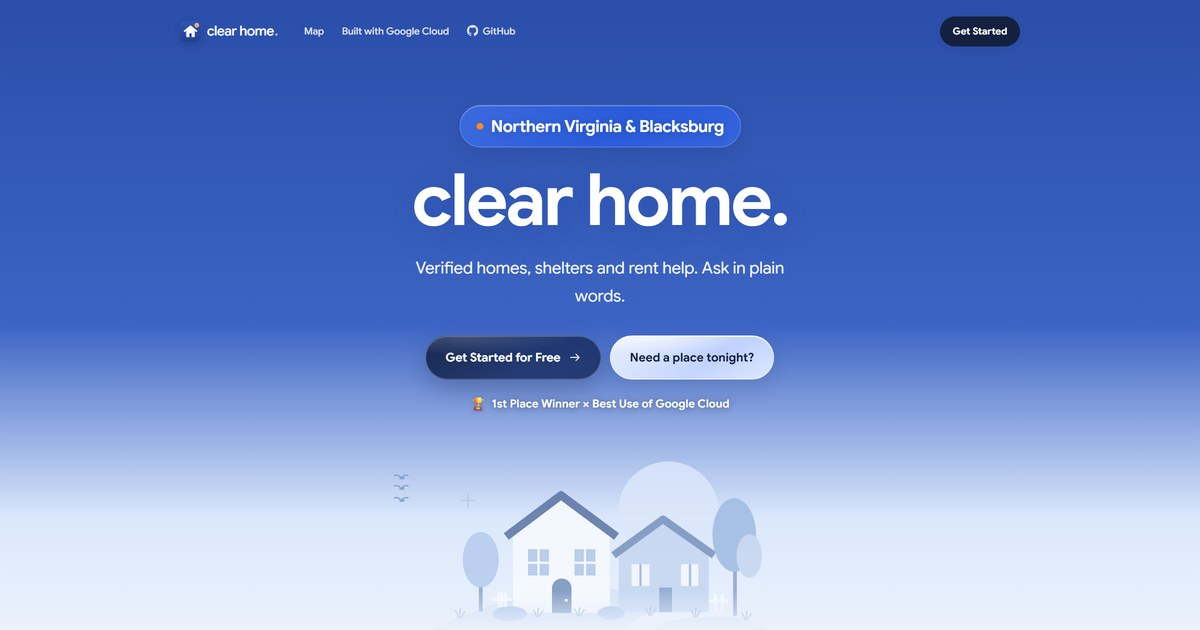
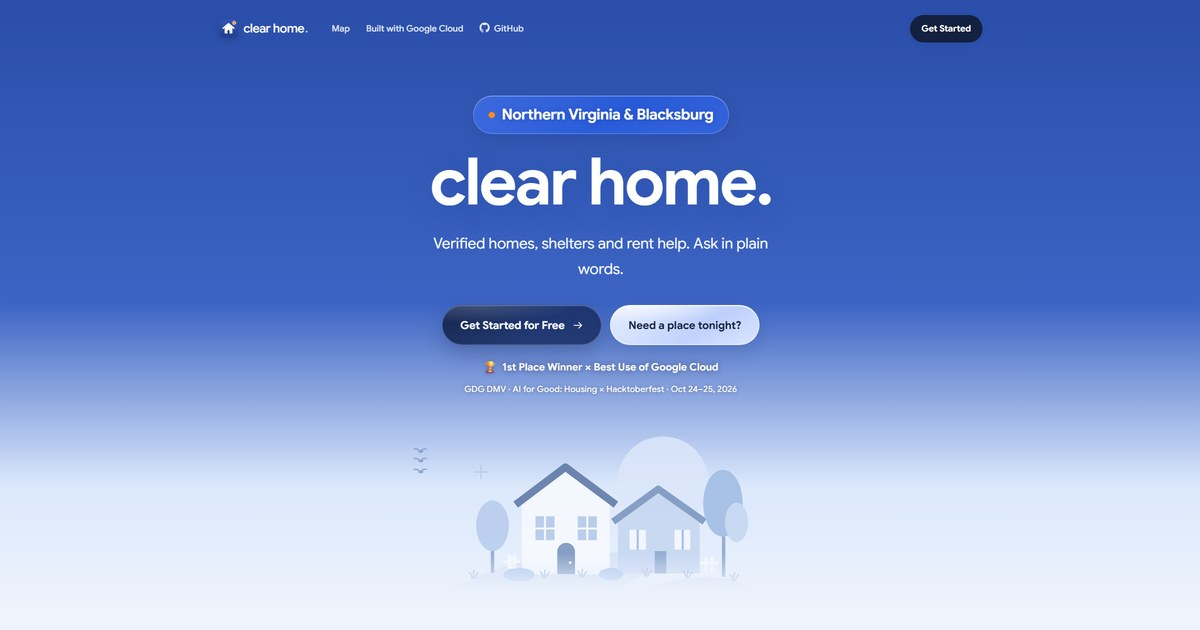
Front page: the event under the award line in smaller text (GDG DMV · AI for Good: Housing × Hacktoberfest · Oct 24–25, 2026; the date on its own line on phones); link preview updated

Changed region(s): [[0.0, 0.1508, 1.0, 0.9952], [0.74, 0.0, 0.8633, 0.0905], [0.1542, 0.0302, 0.4317, 0.0603]]

diff --git a/frontend/about.html b/frontend/about.html
@@ -15,12 +15,12 @@
   <meta property="og:title" content="Clear Home">
   <meta property="og:description" content="Verified homes, shelters and rent help in Northern Virginia and Blacksburg. Ask in plain words.">
   <meta property="og:url" content="https://clearhome.live/">
-  <meta property="og:image" content="https://clearhome.live/images/og-image.jpg?v=4">
+  <meta property="og:image" content="https://clearhome.live/images/og-image.jpg?v=5">
   <meta property="og:image:width" content="1200">
   <meta property="og:image:height" content="630">
   <meta property="og:image:alt" content="The Clear Home front page: clear home., verified homes, shelters and rent help. 1st Place Winner and Best Use of Google Cloud.">
   <meta name="twitter:card" content="summary_large_image">
-  <meta name="twitter:image" content="https://clearhome.live/images/og-image.jpg?v=4">
+  <meta name="twitter:image" content="https://clearhome.live/images/og-image.jpg?v=5">
   <link rel="preconnect" href="https://fonts.googleapis.com">
   <link rel="preconnect" href="https://fonts.gstatic.com" crossorigin>
   <link href="https://fonts.googleapis.com/css2?family=Inter:wght@400;600;700;800&family=IBM+Plex+Sans:wght@400;600&display=swap" rel="stylesheet">
@@ -66,6 +66,7 @@
         <p class="cl-sub cl-in" style="--d:.35s">Verified homes, shelters and rent help. Ask in plain words.</p>
         <div class="cl-actions cl-in" style="--d:.5s"><a class="cl-btn" href="/app" data-start>Get Started for Free <svg width="17" height="17" fill="none" stroke="currentColor" stroke-width="1.8" stroke-linecap="round" stroke-linejoin="round" aria-hidden="true"><use href="#arrow"/></svg></a><a class="cl-btn ghost" href="/app#emergency" data-tonight-start>Need a place tonight?</a></div>
         <p class="cl-award cl-in" style="--d:.65s"><img class="cl-award-cup" src="/images/trophy.png" alt="" width="20" height="20"><span>1st Place Winner × Best Use of Google Cloud</span></p>
+        <p class="cl-award-event cl-in" style="--d:.7s">GDG DMV · AI for Good: Housing × Hacktoberfest<span class="cl-award-sep"> · </span><span class="cl-award-date">Oct 24–25, 2026</span></p>
       </div>
       <div class="cl-hero-art" aria-hidden="true"><svg viewBox="0 0 470 260" fill="none"><circle cx="326" cy="97" r="67" fill="#dce7fb"/><defs><clipPath id="cl-planet"><path d="M0 260A490 490 0 0 1 470 260Z"/></clipPath></defs><path d="M0 260A490 490 0 0 1 470 260Z" fill="#d6e2f5"/><path d="M272 260c45-34 100-39 198-27" stroke="#eef3fc" stroke-width="20" clip-path="url(#cl-planet)"/><path d="M119 127 183 80l65 47v105H119Z" fill="#f8fbff"/><path d="m110 130 73-55 74 55" stroke="#5b74a3" stroke-width="11" stroke-linejoin="round"/><path d="M139 147h28v35h-28zM201 147h28v35h-28z" fill="#b4c8e9"/><path d="M153 147v35m62-35v35m-76-17h28m34 0h28" stroke="#f8fbff" stroke-width="3"/><path d="M171 232v-33a13 13 0 0 1 26 0v33" fill="#7892bc"/><circle cx="190" cy="215" r="2" fill="#f8fbff"/><path d="m260 151 59-43 61 43v80H260Z" fill="#c5d6f1"/><path d="m253 155 66-48 68 48" stroke="#7892bc" stroke-width="10" stroke-linejoin="round"/><path d="M277 167h24v29h-24zM343 167h23v29h-23z" fill="#f4f8ff"/><path d="M289 167v29m66-29v29" stroke="#9eb7de" stroke-width="3"/><path d="M314 231v-33h17v33" fill="#8aa4ce"/><g class="tree t1"><path d="M76 230v-55" stroke="#8aa4ce" stroke-width="5"/><ellipse cx="76" cy="161" rx="24" ry="37" fill="#b6cbed"/></g><g class="tree t2"><path d="M415 236v-93" stroke="#8aa4ce" stroke-width="5"/><ellipse cx="414" cy="128" rx="29" ry="49" fill="#9fbbe3"/><ellipse cx="434" cy="156" rx="17" ry="29" fill="#c5d6f1"/></g><g class="bush"><ellipse cx="115" cy="233" rx="23" ry="10" fill="#a9c2e8"/></g><g class="bush k2"><ellipse cx="250" cy="232" rx="18" ry="9" fill="#a9c2e8"/></g><g class="grass" transform="translate(46 238)"><g class="blades"><path d="M0 0q-1-6-4-9M2 0q0-7 1-11M4 0q2-5 5-8" stroke="#92add5" stroke-width="1.6" stroke-linecap="round"/></g></g><g class="grass" transform="translate(150 237)"><g class="blades"><path d="M0 0q-1-6-4-9M2 0q0-7 1-11M4 0q2-5 5-8" stroke="#92add5" stroke-width="1.6" stroke-linecap="round"/></g></g><g class="grass" transform="translate(205 236)"><g class="blades"><path d="M0 0q-1-6-4-9M2 0q0-7 1-11M4 0q2-5 5-8" stroke="#92add5" stroke-width="1.6" stroke-linecap="round"/></g></g><g class="grass" transform="translate(300 235)"><g class="blades"><path d="M0 0q-1-6-4-9M2 0q0-7 1-11M4 0q2-5 5-8" stroke="#92add5" stroke-width="1.6" stroke-linecap="round"/></g></g><g class="grass" transform="translate(360 237)"><g class="blades"><path d="M0 0q-1-6-4-9M2 0q0-7 1-11M4 0q2-5 5-8" stroke="#92add5" stroke-width="1.6" stroke-linecap="round"/></g></g><g class="grass" transform="translate(428 241)"><g class="blades"><path d="M0 0q-1-6-4-9M2 0q0-7 1-11M4 0q2-5 5-8" stroke="#92add5" stroke-width="1.6" stroke-linecap="round"/></g></g><path d="M104 224v-20m-13 10h26m-17 10v-20m9 20v-20M389 229v-22m-9 9h26m-17 13v-22m9 22v-22" stroke="#f8fbff" stroke-width="4"/><g transform="translate(-30 66)"><g class="bird b1"><g class="bob"><g stroke="#7e9bc8" stroke-width="1.8" stroke-linecap="round" fill="none"><path class="wl" d="M0 0Q-4-5-9-3.5"/><path class="wr" d="M0 0Q4-5 9-3.5"/></g><ellipse cx=".6" cy=".4" rx="3.2" ry="1.5" fill="#7e9bc8"/><circle cx="3.4" cy="-.3" r="1.2" fill="#7e9bc8"/></g></g></g><g transform="translate(-30 52)"><g class="bird b2"><g class="bob"><g stroke="#7e9bc8" stroke-width="1.8" stroke-linecap="round" fill="none"><path class="wl" d="M0 0Q-4-5-9-3.5"/><path class="wr" d="M0 0Q4-5 9-3.5"/></g><ellipse cx=".6" cy=".4" rx="3.2" ry="1.5" fill="#7e9bc8"/><circle cx="3.4" cy="-.3" r="1.2" fill="#7e9bc8"/></g></g></g><g transform="translate(-30 82)"><g class="bird b3"><g class="bob"><g stroke="#7e9bc8" stroke-width="1.8" stroke-linecap="round" fill="none"><path class="wl" d="M0 0Q-4-5-9-3.5"/><path class="wr" d="M0 0Q4-5 9-3.5"/></g><ellipse cx=".6" cy=".4" rx="3.2" ry="1.5" fill="#7e9bc8"/><circle cx="3.4" cy="-.3" r="1.2" fill="#7e9bc8"/></g></g></g><path d="M49 82h20m-10-10v20" stroke="#b4c8e9" stroke-width="2"/></svg></div>
     </section>

diff --git a/frontend/google-cloud.html b/frontend/google-cloud.html
@@ -15,12 +15,12 @@
   <meta property="og:title" content="Clear Home: built with Google Cloud">
   <meta property="og:description" content="How Clear Home runs Gemma 4 on its own Cloud Run GPU, with the Gemini API, Google Maps and Secret Manager.">
   <meta property="og:url" content="https://clearhome.live/google-cloud">
-  <meta property="og:image" content="https://clearhome.live/images/og-image.jpg?v=4">
+  <meta property="og:image" content="https://clearhome.live/images/og-image.jpg?v=5">
   <meta property="og:image:width" content="1200">
   <meta property="og:image:height" content="630">
   <meta property="og:image:alt" content="The Clear Home front page: clear home., verified homes, shelters and rent help. 1st Place Winner and Best Use of Google Cloud.">
   <meta name="twitter:card" content="summary_large_image">
-  <meta name="twitter:image" content="https://clearhome.live/images/og-image.jpg?v=4">
+  <meta name="twitter:image" content="https://clearhome.live/images/og-image.jpg?v=5">
   <link rel="preconnect" href="https://fonts.googleapis.com">
   <link rel="preconnect" href="https://fonts.gstatic.com" crossorigin>
   <link href="https://fonts.googleapis.com/css2?family=Inter:wght@400;600;700;800&display=swap" rel="stylesheet">

diff --git a/frontend/resources.html b/frontend/resources.html
@@ -15,12 +15,12 @@
   <meta property="og:title" content="Clear Home: housing resources">
   <meta property="og:description" content="How to qualify, where to apply and which voucher, rent help and legal aid programs are open now.">
   <meta property="og:url" content="https://clearhome.live/resources">
-  <meta property="og:image" content="https://clearhome.live/images/og-image.jpg?v=4">
+  <meta property="og:image" content="https://clearhome.live/images/og-image.jpg?v=5">
   <meta property="og:image:width" content="1200">
   <meta property="og:image:height" content="630">
   <meta property="og:image:alt" content="The Clear Home front page: clear home., verified homes, shelters and rent help. 1st Place Winner and Best Use of Google Cloud.">
   <meta name="twitter:card" content="summary_large_image">
-  <meta name="twitter:image" content="https://clearhome.live/images/og-image.jpg?v=4">
+  <meta name="twitter:image" content="https://clearhome.live/images/og-image.jpg?v=5">
   <link rel="preconnect" href="https://fonts.googleapis.com">
   <link rel="preconnect" href="https://fonts.gstatic.com" crossorigin>
   <link href="https://fonts.googleapis.com/css2?family=Inter:wght@400;600;700;800&display=swap" rel="stylesheet">

diff --git a/frontend/index.html b/frontend/index.html
@@ -15,12 +15,12 @@
   <meta property="og:title" content="Clear Home: find your next step">
   <meta property="og:description" content="Search verified homes, shelters and rent help in Northern Virginia and Blacksburg, or ask Gemma in plain words.">
   <meta property="og:url" content="https://clearhome.live/app">
-  <meta property="og:image" content="https://clearhome.live/images/og-image.jpg?v=4">
+  <meta property="og:image" content="https://clearhome.live/images/og-image.jpg?v=5">
   <meta property="og:image:width" content="1200">
   <meta property="og:image:height" content="630">
   <meta property="og:image:alt" content="The Clear Home front page: clear home., verified homes, shelters and rent help. 1st Place Winner and Best Use of Google Cloud.">
   <meta name="twitter:card" content="summary_large_image">
-  <meta name="twitter:image" content="https://clearhome.live/images/og-image.jpg?v=4">
+  <meta name="twitter:image" content="https://clearhome.live/images/og-image.jpg?v=5">
   <script src="/assets/app/arrival.js"></script>
   <link rel="stylesheet" href="/assets/app/base.css">
   <link rel="stylesheet" href="https://cdnjs.cloudflare.com/ajax/libs/leaflet/1.9.4/leaflet.min.css">

diff --git a/frontend/assets/home/home.css b/frontend/assets/home/home.css
@@ -3044,8 +3044,28 @@ body {
   height: 1.35em;
   filter: drop-shadow(0 1px 3px #0b143340)
 }
+/* The event, in smaller text under the award line. */
+.cl-hero .cl-award-event {
+  margin: 4px 0 0;
+  color: #fff;
+  opacity: .92;
+  font-size: 12.5px;
+  font-weight: 500;
+  letter-spacing: .01em;
+  text-shadow: 0 1px 8px #0b143366, 0 0 2px #0b143340
+}
+.cl-hero .cl-award-date {
+  white-space: nowrap
+}
 @media (max-width: 560px) {
   .cl-hero .cl-award {
     font-size: 14px
+  }
+  /* On a phone the date gets its own line instead of breaking in the middle. */
+  .cl-hero .cl-award-sep {
+    display: none
+  }
+  .cl-hero .cl-award-date {
+    display: block
   }
 }
